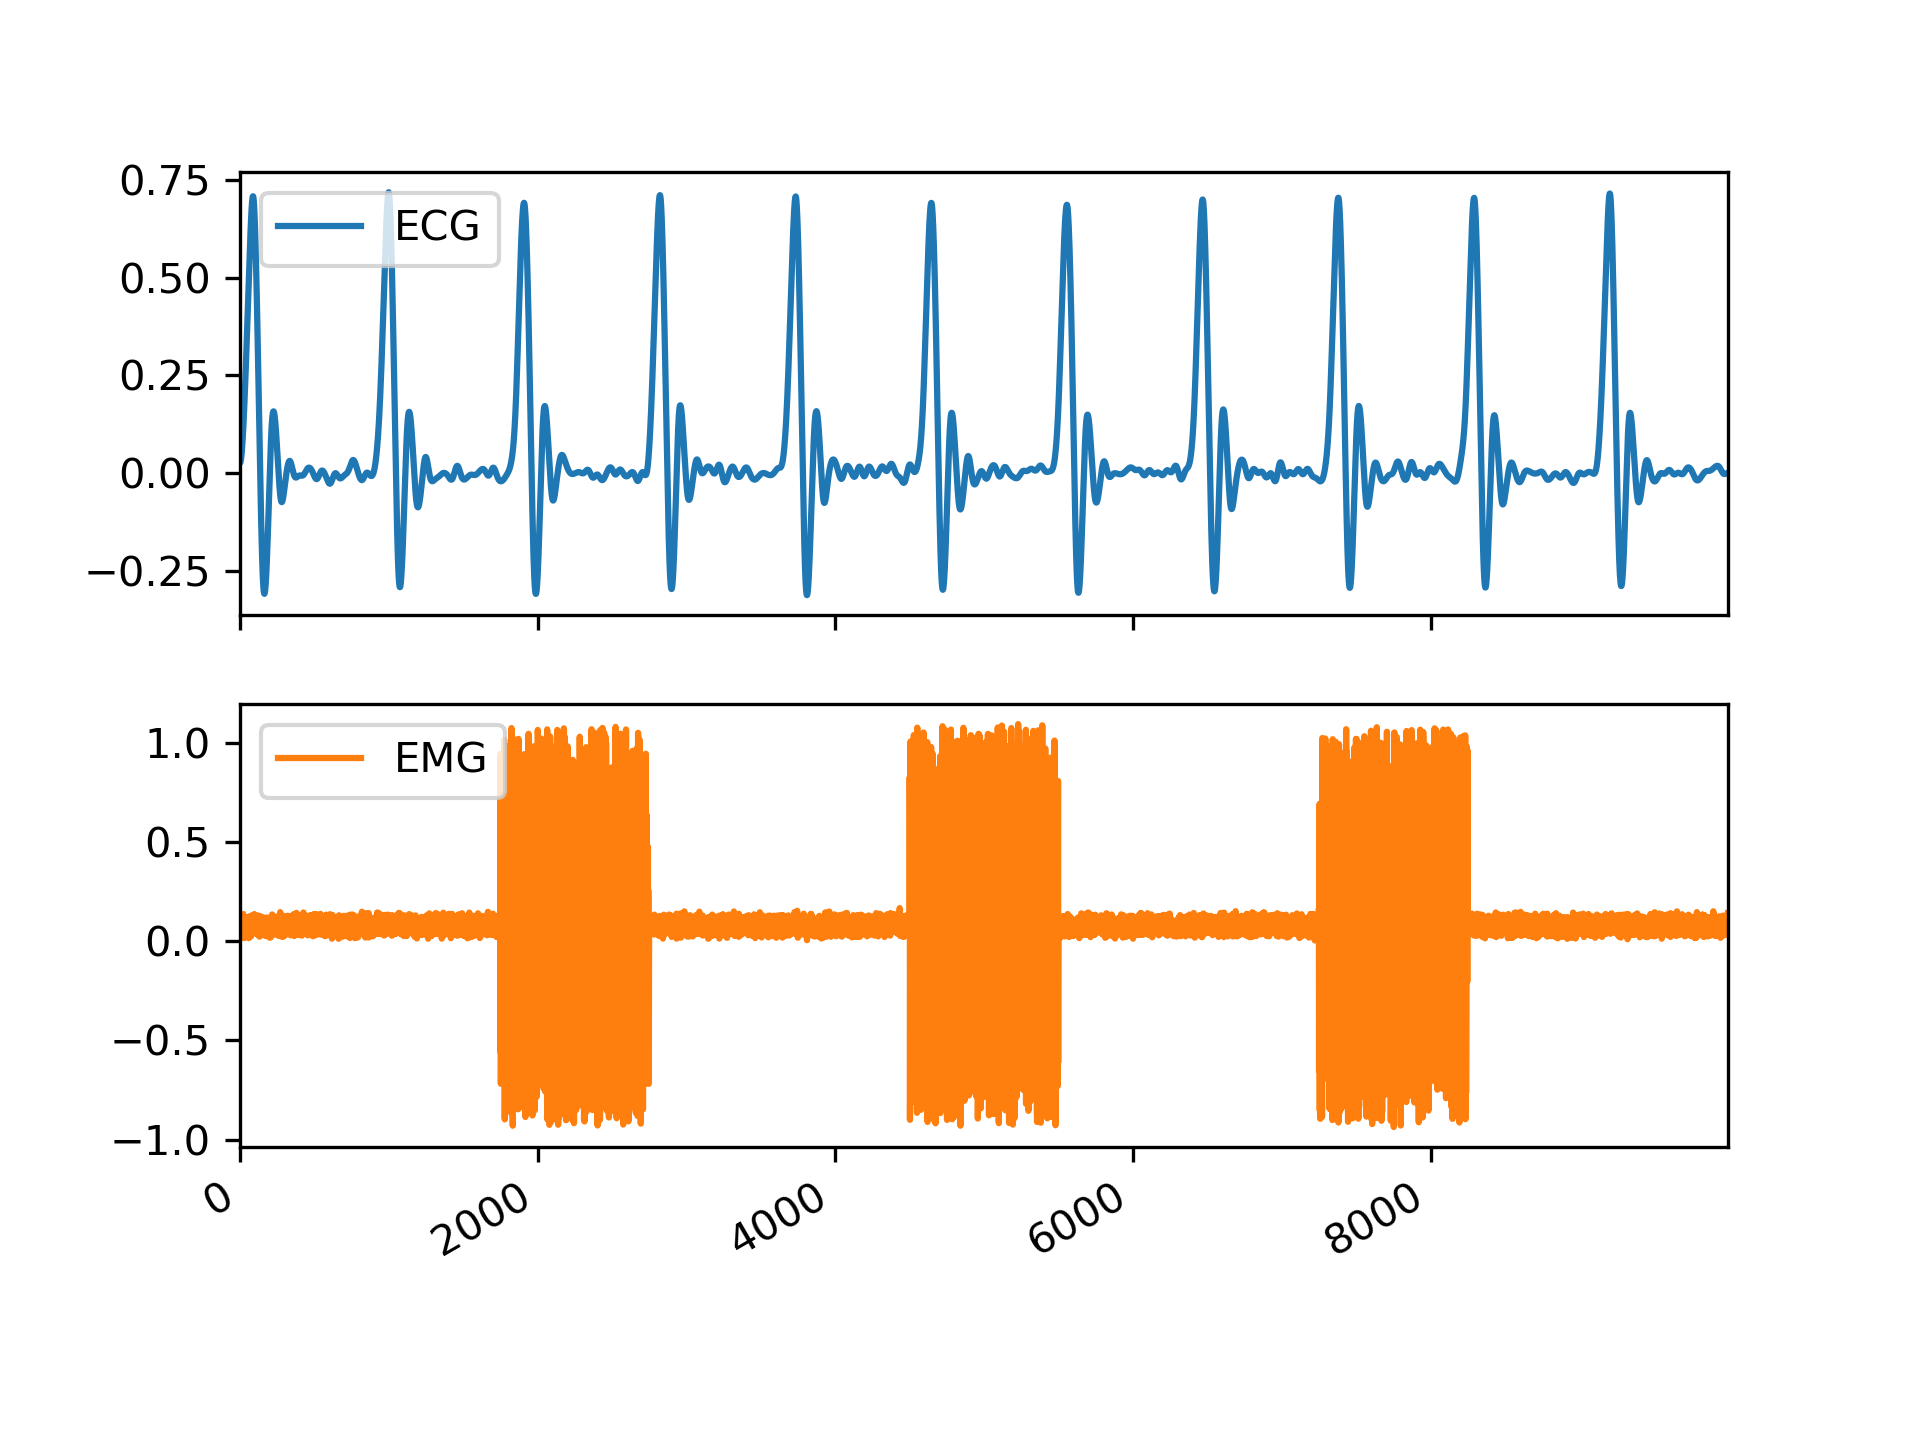
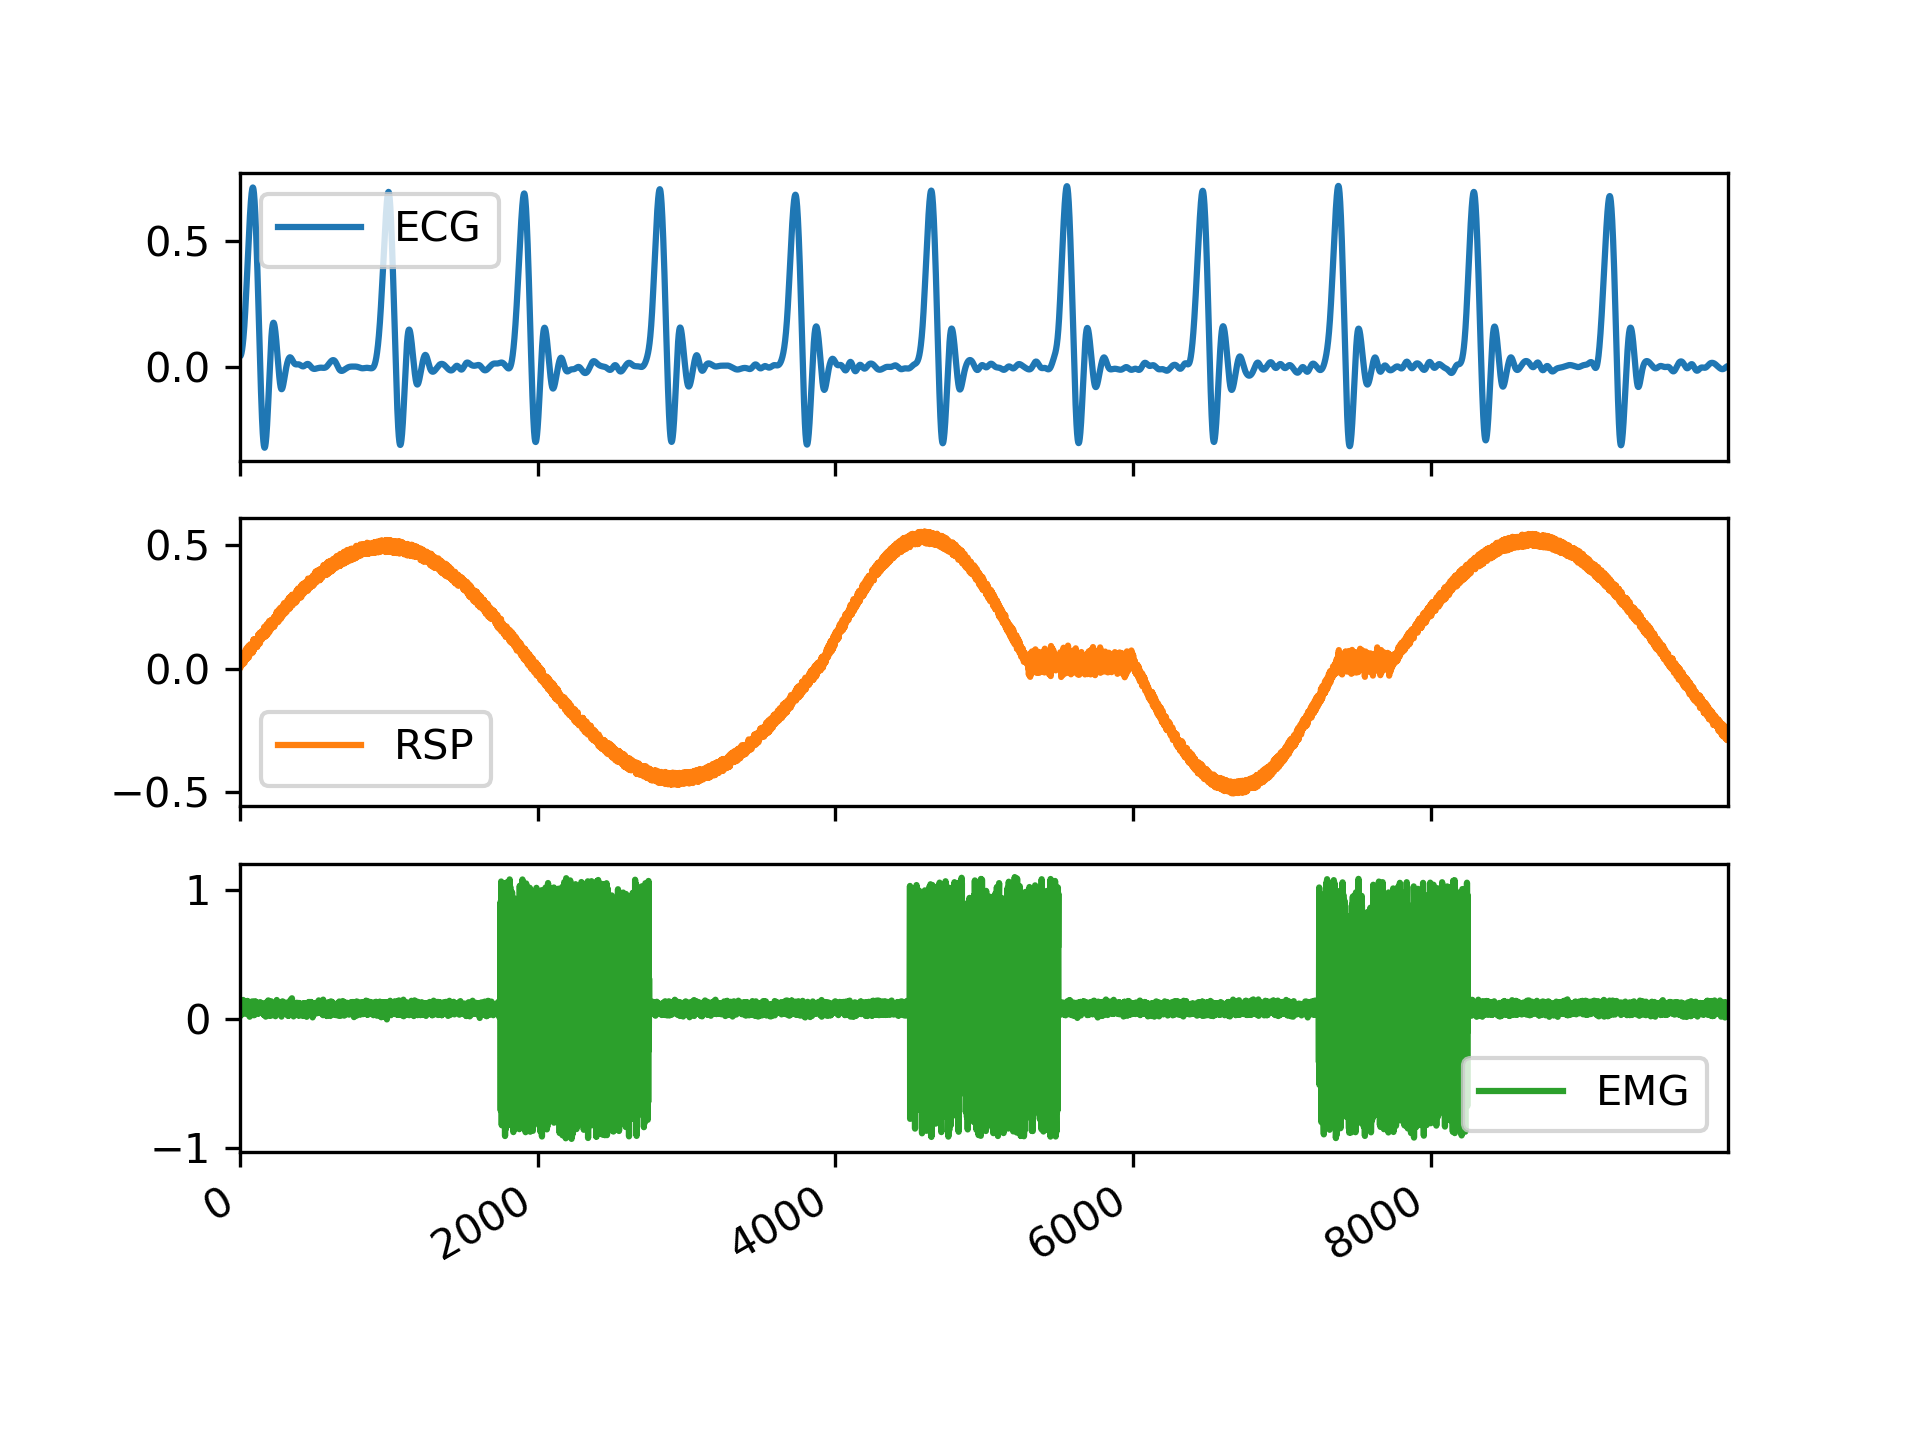
README

diff --git a/neurokit2/signal/signal_resample.py b/neurokit2/signal/signal_resample.py
@@ -10,7 +10,7 @@ import scipy.ndimage
 def signal_resample(signal, desired_length=None, sampling_rate=None, desired_sampling_rate=None, method="interpolation"):
     """Resample a continuous signal to a different length or sampling rate.
 
-    This function can be used to up- or down-sample a signal. The user can specify either a desired length for the vector, or input the original sampling rate and the desired sampling rate. See https://github.com/neuropsychology/NeuroKit/scripts/resampling.ipynb for a comparison of the methods.
+    Up- or down-sample a signal. The user can specify either a desired length for the vector, or input the original sampling rate and the desired sampling rate. See https://github.com/neuropsychology/NeuroKit/scripts/resampling.ipynb for a comparison of the methods.
 
     Parameters
     ----------

diff --git a/docs/img/README_examples.py b/docs/img/README_examples.py
@@ -9,11 +9,16 @@ import neurokit2 as nk
 
 # Generate synthetic signals
 ecg = nk.ecg_simulate(duration=10, heart_rate=70)
+rsp = nk.rsp_simulate(duration=10, respiratory_rate=15)
 emg = nk.emg_simulate(duration=10, n_bursts=3)
 
 # Visualise biosignals
-pd.DataFrame({"ECG": ecg, "EMG": emg}).plot(subplots=True, layout=(2, 1))
+data = pd.DataFrame({"ECG": ecg,
+                     "RSP": rsp,
+                     "EMG": emg})
+data.plot(subplots=True, layout=(3, 1))
 
 
-plot = pd.DataFrame({"ECG": ecg, "EMG": emg}).plot(subplots=True, layout=(2, 1))
+# Save it
+plot = data.plot(subplots=True, layout=(3, 1))
 plot[0][0].get_figure().savefig("README_simulation.png", dpi=300)

diff --git a/neurokit2/signal/signal_interpolate.py b/neurokit2/signal/signal_interpolate.py
@@ -7,10 +7,7 @@ def signal_interpolate(signal, desired_length=None, method="quadratic",
                        x_axis=None, new_x=None):
     """Interpolate a signal.
 
-    Samples up until the first peak as well as from last peak to end of signal
-    are set to the value of the first and last element of 'stats' respectively.
-    Linear (2nd order) interpolation is chosen since higher order interpolation
-    can lead to biologically implausible values and erratic fluctuations.
+    Interpolate (fills the values between data points) a signal using different methods.
 
     Parameters
     ----------

diff --git a/neurokit2/signal/signal_filter.py b/neurokit2/signal/signal_filter.py
@@ -6,7 +6,7 @@ import scipy.signal
 def signal_filter(signal, sampling_rate=1000, lowcut=None, highcut=None, method="butterworth", butterworth_order=5):
     """Filter a signal.
 
-    Will apply a lowpass (if 'highcut' frequency is provided), highpass (if 'lowcut' frequency is provided) or bandpass (if both are provided) filter to the signal.
+    Apply a lowpass (if 'highcut' frequency is provided), highpass (if 'lowcut' frequency is provided) or bandpass (if both are provided) filter to the signal.
 
     Parameters
     ----------

diff --git a/neurokit2/signal/signal_detrend.py b/neurokit2/signal/signal_detrend.py
@@ -6,7 +6,7 @@ import pandas as pd
 def signal_detrend(signal, order=1):
     """Polynomial detrending of signal.
 
-    Function to do baseline (order = 0), linear (order = 1), or polynomial (order > 1) detrending of the signal (i.e., removing a general trend).
+    Apply a baseline (order = 0), linear (order = 1), or polynomial (order > 1) detrending to the signal (i.e., removing a general trend).
 
     Parameters
     ----------

diff --git a/neurokit2/signal/signal_binarize.py b/neurokit2/signal/signal_binarize.py
@@ -24,7 +24,7 @@ def _signal_binarize(signal, threshold="auto"):
 def signal_binarize(signal, threshold="auto"):
     """Binarize a continuous signal.
 
-    Converts a continuous signal into zeros and ones depending on a given threshold.
+    Convert a continuous signal into zeros and ones depending on a given threshold.
 
     Parameters
     ----------

diff --git a/README.rst b/README.rst
@@ -69,10 +69,14 @@ Simulate biosignals
 
     # Generate synthetic signals
     ecg = nk.ecg_simulate(duration=10, heart_rate=70)
+    rsp = nk.rsp_simulate(duration=10, respiratory_rate=15)
     emg = nk.emg_simulate(duration=10, n_bursts=3)
 
     # Visualise biosignals
-    pd.DataFrame({"ECG": ecg, "EMG": emg}).plot(subplots=True, layout=(2, 1))
+    data = pd.DataFrame({"ECG": ecg,
+                         "RSP": rsp,
+                         "EMG": emg})
+    data.plot(subplots=True, layout=(3, 1))
 
 
 .. image:: https://raw.github.com/neuropsychology/NeuroKit/master/docs/img/README_simulation.png
@@ -82,21 +86,23 @@ Signal processing
 
 NeuroKit includes functions to facilitate signal processing:
 
-- `signal_binarize() <https://neurokit2.readthedocs.io/en/latest/functions.html#neurokit2.signal_binarize>`_
-- `signal_findpeaks() <https://neurokit2.readthedocs.io/en/latest/functions.html#neurokit2.signal_findpeaks>`_
-- `signal_resample() <https://neurokit2.readthedocs.io/en/latest/functions.html#neurokit2.signal_resample>`_
-- `signal_interpolate() <https://neurokit2.readthedocs.io/en/latest/functions.html#neurokit2.signal_interpolate>`_
-- `signal_detrend() <https://neurokit2.readthedocs.io/en/latest/functions.html#neurokit2.signal_detrend>`_
-- `signal_filter() <https://neurokit2.readthedocs.io/en/latest/functions.html#neurokit2.signal_filter>`_
-        
+- `signal_binarize() <https://neurokit2.readthedocs.io/en/latest/functions.html#neurokit2.signal_binarize>`_: Convert a continuous signal into zeros and ones depending on a given threshold.
+- `signal_findpeaks() <https://neurokit2.readthedocs.io/en/latest/functions.html#neurokit2.signal_findpeaks>`_: Locate peaks (local maxima) in a signal and their related characteristics, such as height (prominence), width and distance with other peaks.
+- `signal_resample() <https://neurokit2.readthedocs.io/en/latest/functions.html#neurokit2.signal_resample>`_: Up- or down-sample a signal.
+- `signal_interpolate() <https://neurokit2.readthedocs.io/en/latest/functions.html#neurokit2.signal_interpolate>`_: Interpolate (fills the values between data points) a signal using different methods.
+- `signal_detrend() <https://neurokit2.readthedocs.io/en/latest/functions.html#neurokit2.signal_detrend>`_: Apply a baseline (order = 0), linear (order = 1), or polynomial (order > 1) detrending to the signal (i.e., removing a general trend).
+- `signal_filter() <https://neurokit2.readthedocs.io/en/latest/functions.html#neurokit2.signal_filter>`_: Apply a lowpass, highpass or bandpass filter to the signal.
+
+
+
 Alternatives
 -------------
 
 Here's a list of great alternative packages that you should check-out:
 
 
-Multi
-^^^^^^
+General
+^^^^^^^
 
 - `BioSPPy <https://github.com/PIA-Group/BioSPPy>`_
 - `PySiology <https://github.com/Gabrock94/Pysiology>`_
